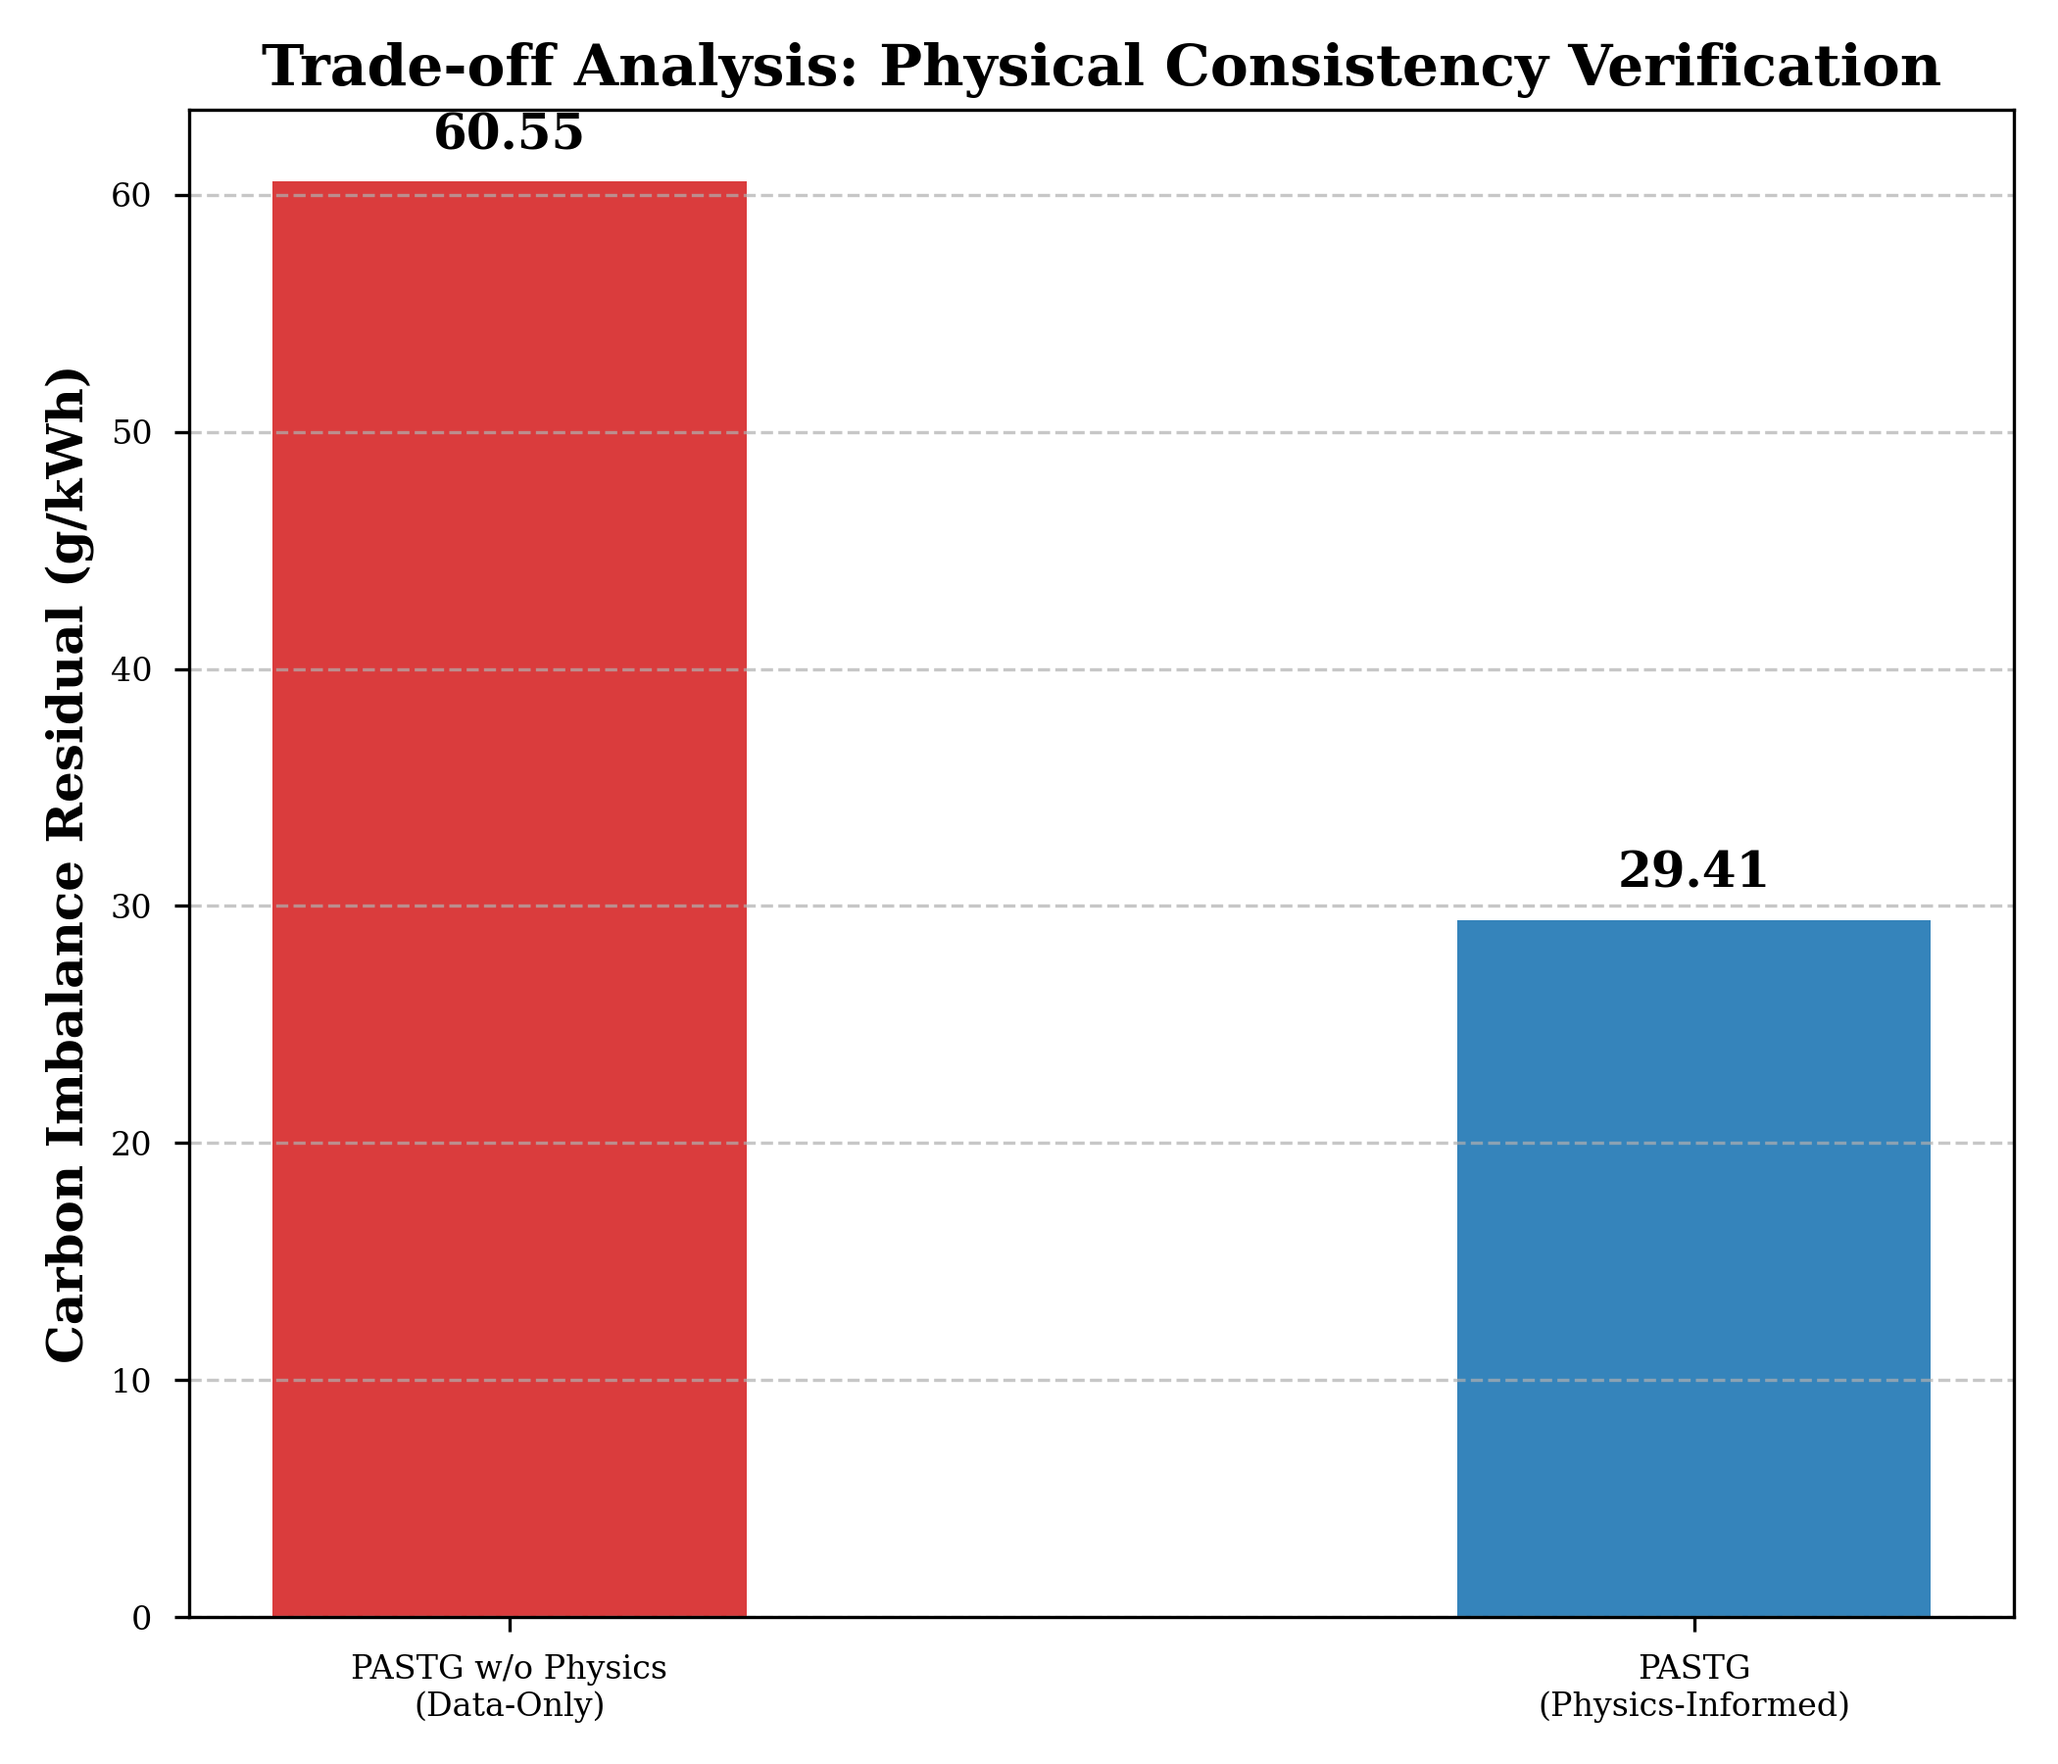
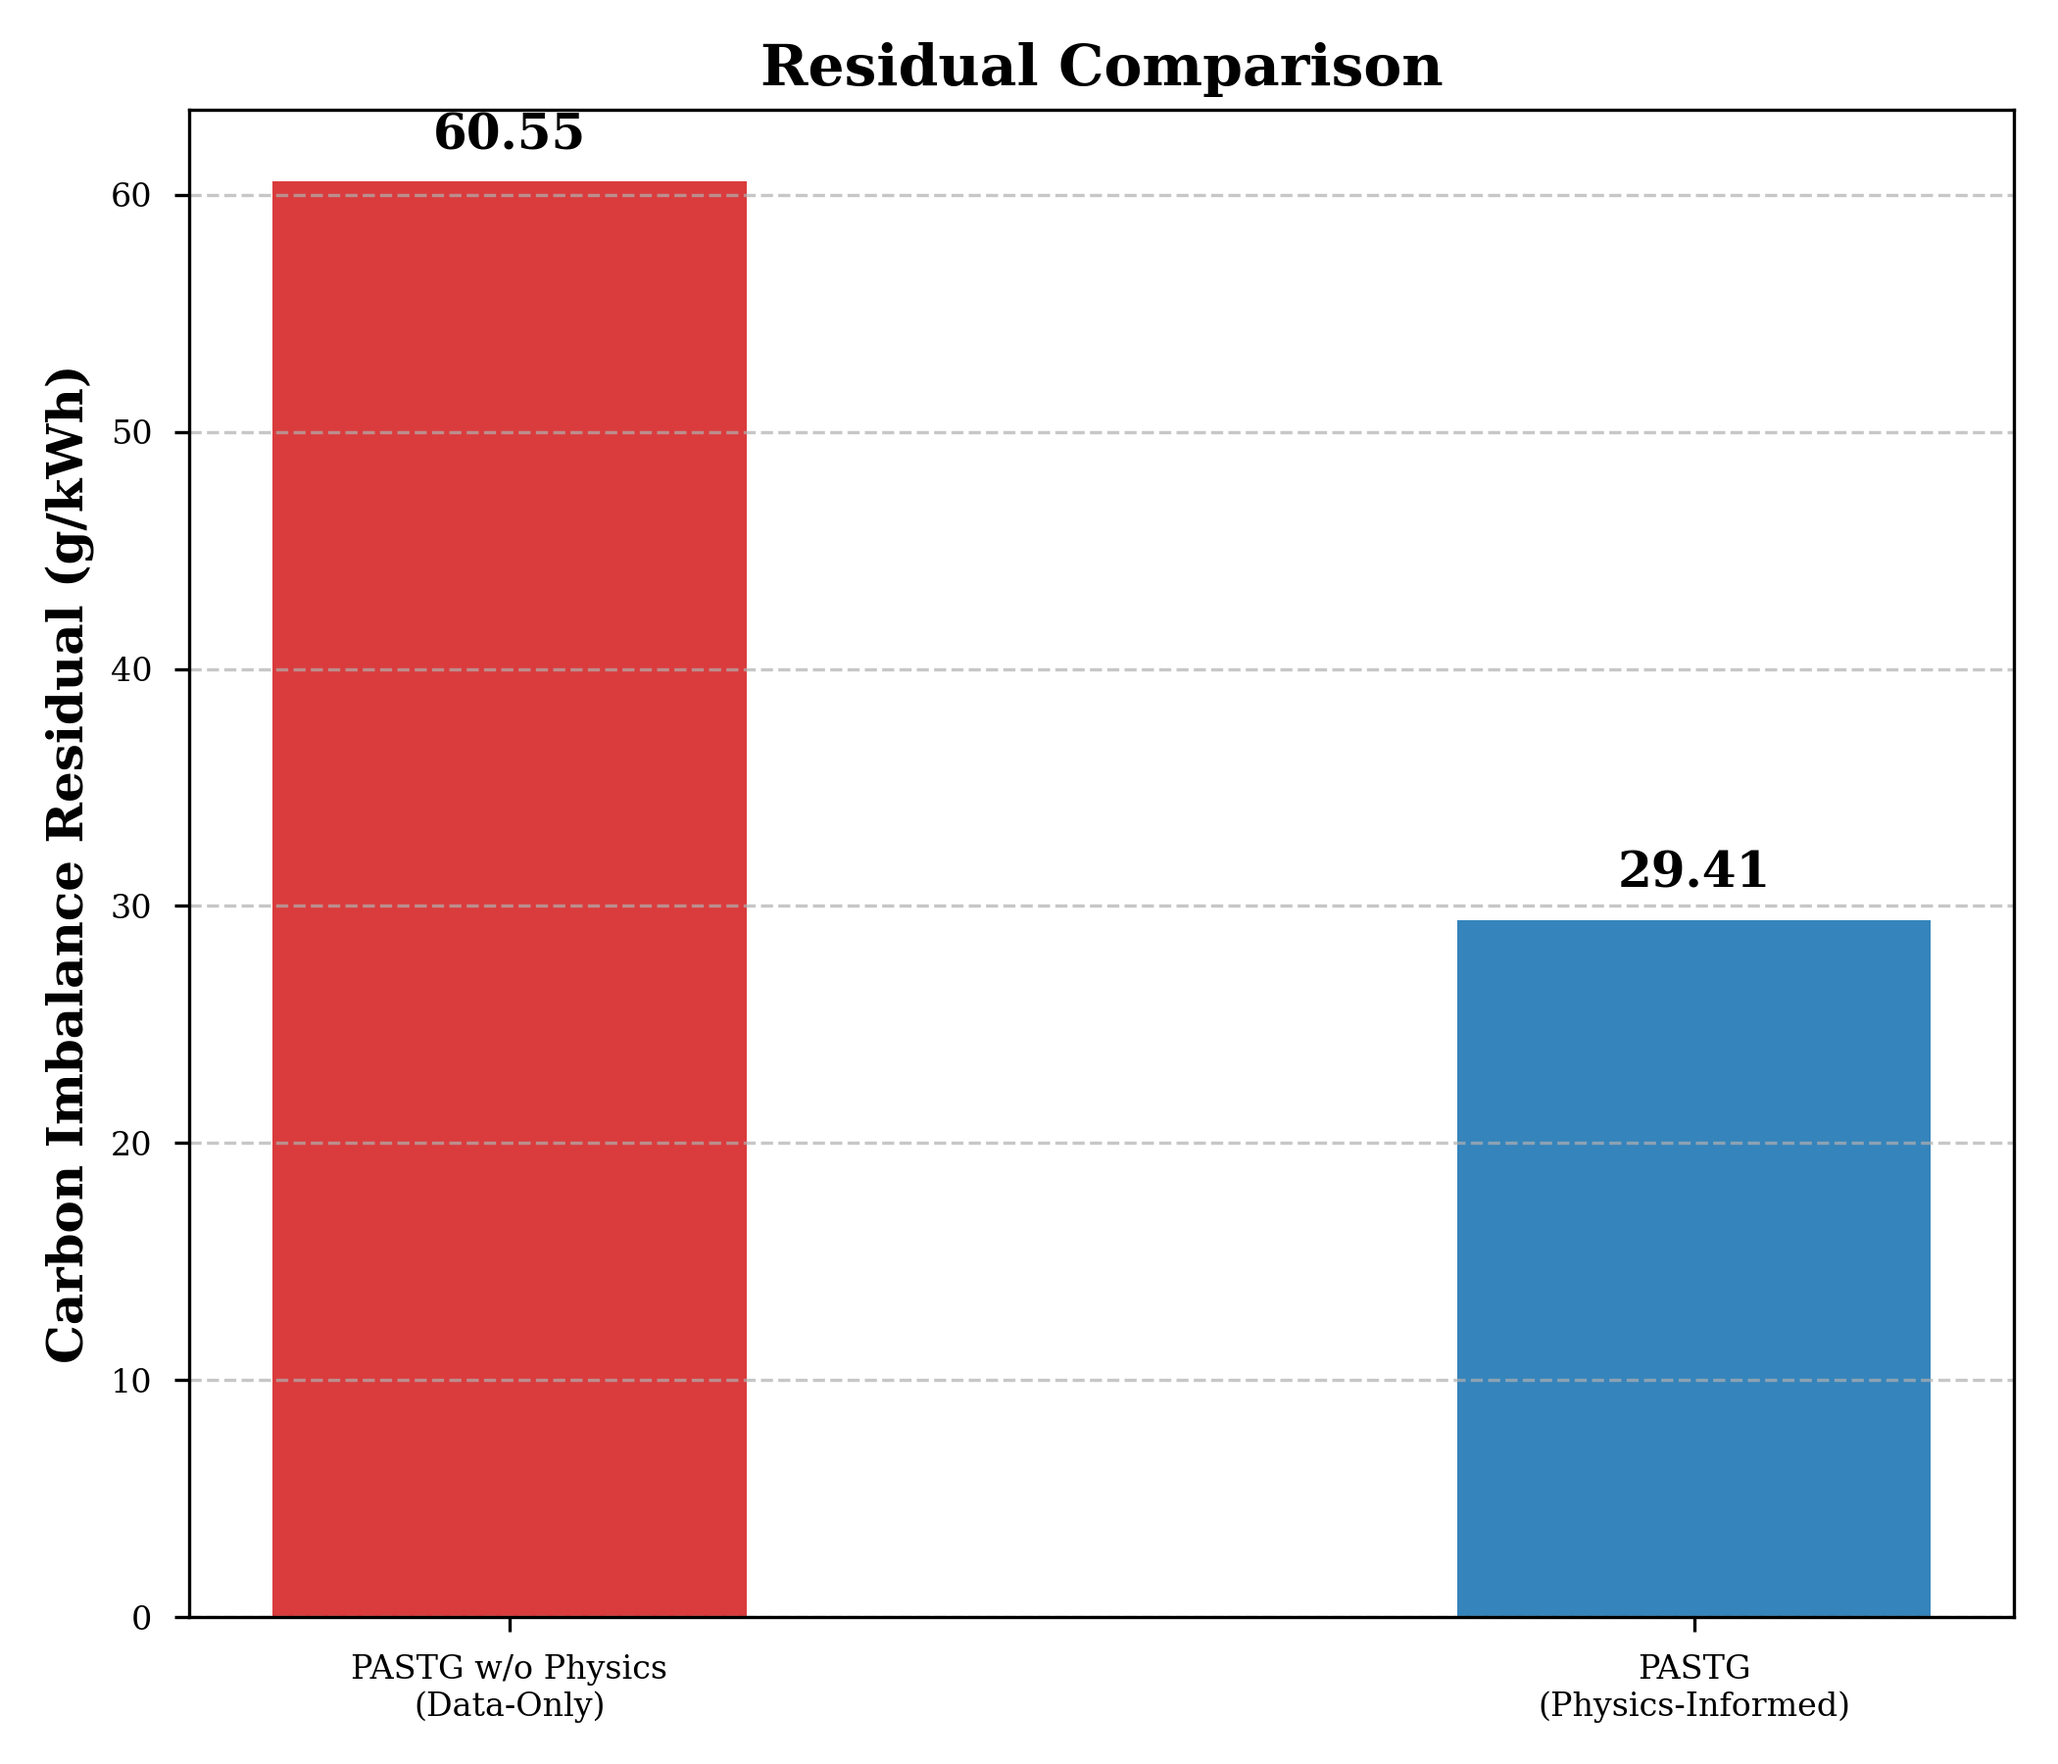
title

Changed region(s): [[0.1238, 0.0, 0.9595, 0.0622]]

diff --git a/baseline2.py b/baseline2.py
@@ -373,7 +373,7 @@ def run_all():
     bars = plt.bar(labels, residuals, color=['#d62728', '#1f77b4'], width=0.4, alpha=0.9)
     plt.ylabel("Carbon Imbalance Residual (g/kWh)", fontweight='bold', fontsize=12)
     # 增加图表标题
-    plt.title("Trade-off Analysis: Physical Consistency Verification", fontweight='bold', fontsize=14)
+    plt.title("Residual Comparison", fontweight='bold', fontsize=14)
     plt.grid(axis='y', ls='--', alpha=0.7)
 
     # 遍历柱子，在顶部添加具体数值标签
